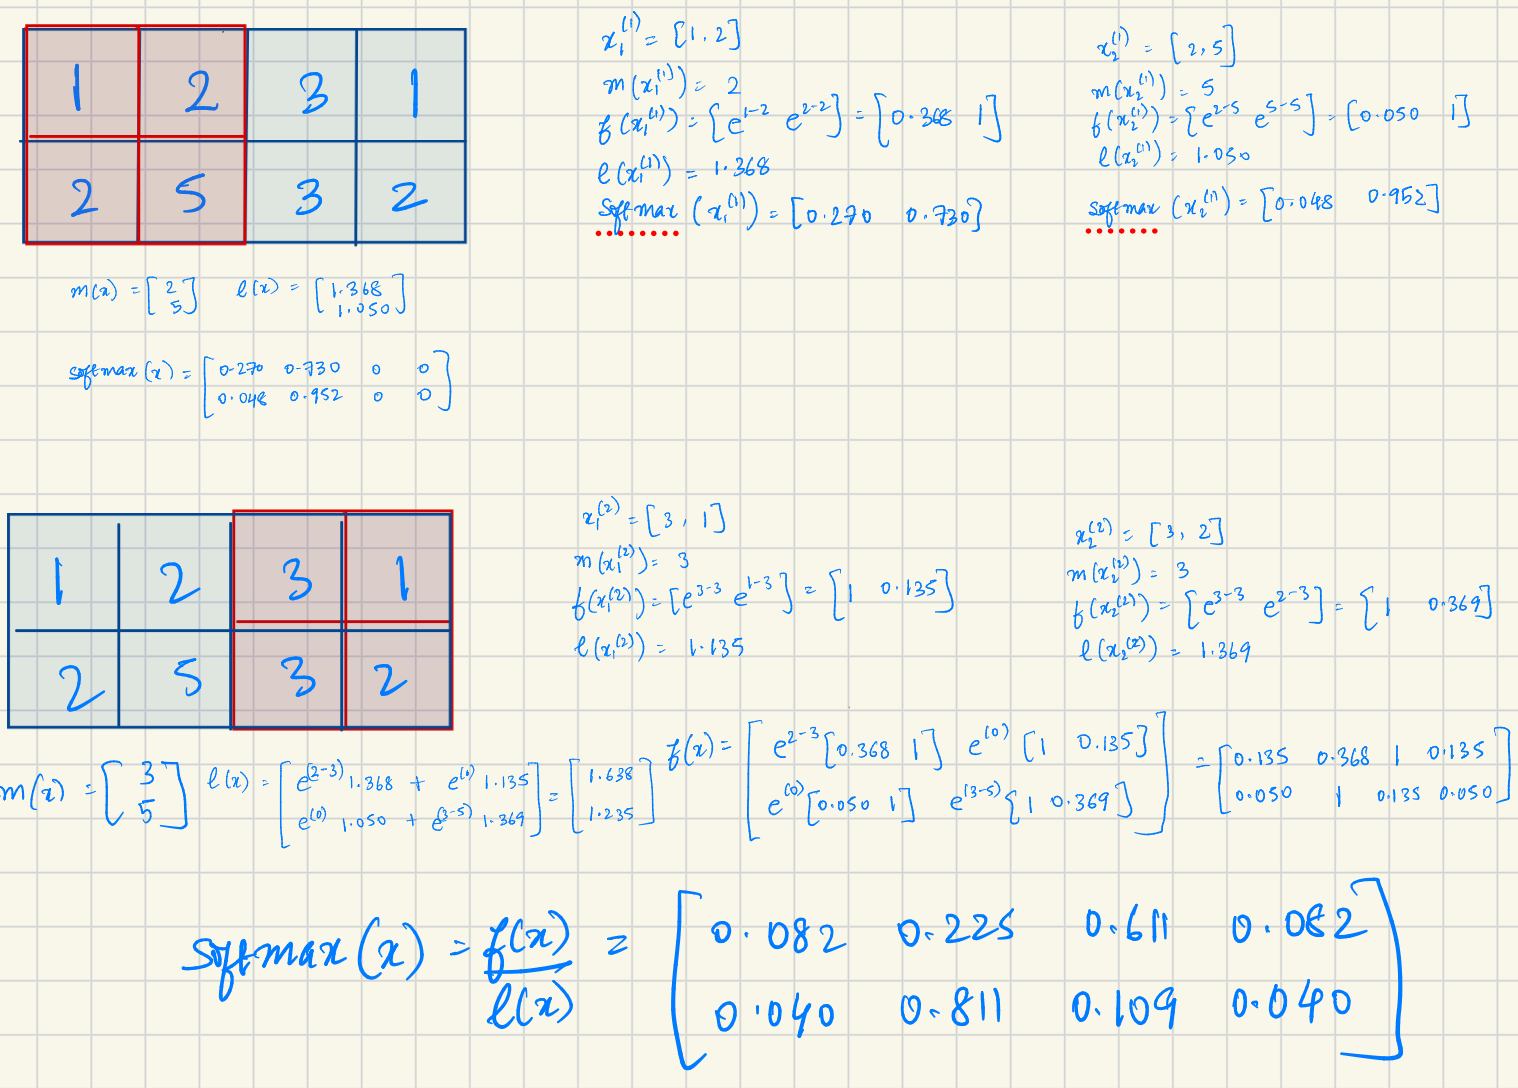
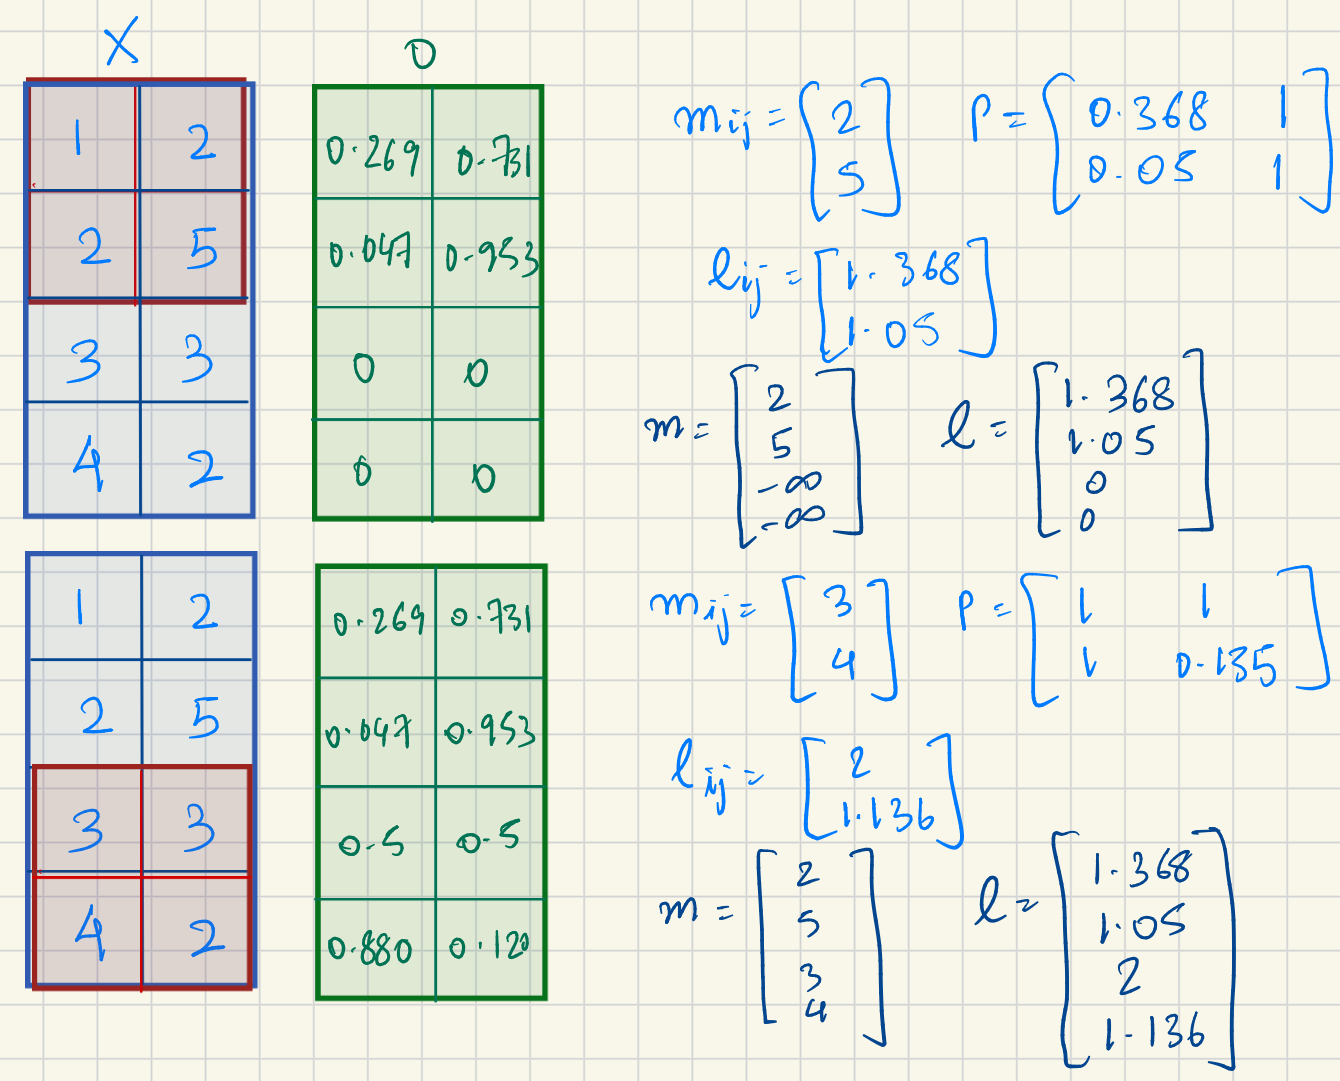
Built site for gh-pages

diff --git a/posts/flash-attention/2025-11-14-notes-on-flash-attention.html b/posts/flash-attention/2025-11-14-notes-on-flash-attention.html
@@ -174,7 +174,7 @@ window.Quarto = {
       <div>
       <div class="quarto-title-meta-heading">Modified</div>
       <div class="quarto-title-meta-contents">
-        <p class="date-modified">November 15, 2025</p>
+        <p class="date-modified">November 16, 2025</p>
       </div>
     </div>
       
@@ -336,8 +336,8 @@ f(x) &amp;= [e^{m(x^{(1)}) - m(x)}f(x^{(1)}) e^{m(x^{(2)}) - m(x)}f(x^{(2)})] \\
 <p>The following is a small hand-worked example:</p>
 <div class="quarto-figure quarto-figure-center">
 <figure class="figure">
-<p><img src="images/blockwise_softmax.png" title="Fig 1: Hand-worked example of block-wise softmax calculation using the online normalizers." class="img-fluid figure-img"></p>
-<figcaption>Blockwise Softmax</figcaption>
+<p><img src="images/blockwise_softmax.png" title="Figure: Example of blockwise softmax using m and l" class="img-fluid figure-img"></p>
+<figcaption>Figure: Example of blockwise softmax using <span class="math inline">\(m\)</span> and <span class="math inline">\(\ell\)</span></figcaption>
 </figure>
 </div>
 <div class="callout callout-style-default callout-important callout-titled">
@@ -356,7 +356,7 @@ f(x) &amp;= [e^{m(x^{(1)}) - m(x)}f(x^{(1)}) e^{m(x^{(2)}) - m(x)}f(x^{(2)})] \\
 </section>
 <section id="re-computation-of-s-and-p-for-backward-pass" class="level3">
 <h3 class="anchored" data-anchor-id="re-computation-of-s-and-p-for-backward-pass">Re-computation of S and P for backward pass</h3>
-<p>While the tiling trick enables speed-ups for inference, i.e.&nbsp;during the forward pass through the transformer, the backward pass typically relies on the intermediate matrices <span class="math inline">\(S,P \in \mathbb{R}^{N \times N}\)</span> for the gradient computation with respect to <span class="math inline">\(\mathbf{Q}, \mathbf{K}, \mathbf{V}\)</span>.</p>
+<p>While the tiling trick enables speed-ups for inference, i.e.&nbsp;during the forward pass through the transformer, the backward pass typically relies on the intermediate matrices <span class="math inline">\(\mathbf{S},\mathbf{P} \in \mathbb{R}^{N \times N}\)</span> for the gradient computation with respect to <span class="math inline">\(\mathbf{Q}, \mathbf{K}, \mathbf{V}\)</span>.</p>
 <p>To avoid storing the <span class="math inline">\(O(N^2)\)</span> intermediate values for the backward pass, the authors instead store the softmax normalization statistics <span class="math inline">\((m, \ell)\)</span> and <em>re-compute</em> <span class="math inline">\(\mathbf{S}, \mathbf{P}\)</span> in the SRAM during the backward pass.</p>
 <div class="callout callout-style-default callout-important callout-titled">
 <div class="callout-header d-flex align-content-center">
@@ -374,7 +374,7 @@ Important
 </section>
 <section id="flashattention-algorithm-forward" class="level3">
 <h3 class="anchored" data-anchor-id="flashattention-algorithm-forward">FlashAttention Algorithm (Forward)</h3>
-<p>The authors prove that this algorithm returns <span class="math inline">\(\mathbf{O} = \text{softmax}(\mathbf{Q}\mathbf{K}^T\mathbf{V})\)</span> with <span class="math inline">\(𝑂(𝑁^2d)\)</span> FLOPs and requires <span class="math inline">\(𝑂(𝑁)\)</span> additional memory beyond inputs and output to store <span class="math inline">\(m\)</span> and <span class="math inline">\(\ell\)</span>.</p>
+<p>The authors prove that this algorithm returns <span class="math inline">\(\mathbf{O} = \text{softmax}(\mathbf{Q}\mathbf{K}^T\mathbf{V})\)</span> with <span class="math inline">\(O(N^2d)\)</span> FLOPs and requires <span class="math inline">\(O(N)\)</span> additional memory beyond inputs and output to store <span class="math inline">\(m\)</span> and <span class="math inline">\(\ell\)</span>.</p>
 <p><strong>Require:</strong> Matrices <span class="math inline">\(\mathbf{Q}, \mathbf{K}, \mathbf{V} \in \mathbb{R}^{N \times d}\)</span> in HBM, on-chip SRAM of size <span class="math inline">\(M\)</span>.</p>
 <ol type="1">
 <li>Set block sizes <span class="math inline">\(B_c = \lceil \frac{M}{4d} \rceil\)</span>, <span class="math inline">\(B_r = \min(\lceil \frac{M}{4d} \rceil, d)\)</span>.</li>
@@ -388,14 +388,27 @@ Important
 <li><span class="math inline">\(\qquad\)</span> On chip, compute <span class="math inline">\(\mathbf{S}_{ij} = \mathbf{Q}_i \mathbf{K}_j^T \in \mathbb{R}^{B_r \times B_c}\)</span>.</li>
 <li><span class="math inline">\(\qquad\)</span> On chip, compute <span class="math inline">\(\tilde{m}_{ij} = \text{rowmax}(\mathbf{S}_{ij}) \in \mathbb{R}^{B_r}\)</span>, <span class="math inline">\(\mathbf{\tilde{P}}_{ij} = \exp(\mathbf{S}_{ij} - \tilde{m}_{ij}) \in \mathbb{R}^{B_r \times B_c}\)</span> (pointwise), <span class="math inline">\(\mathbf{\tilde{\ell}}_{ij} = \text{rowsum}(\mathbf{\tilde{P}}_{ij}) \in \mathbb{R}^{B_r}\)</span>.</li>
 <li><span class="math inline">\(\qquad\)</span> On chip, compute <span class="math inline">\(m_i^{\text{new}} = \max(m_i, \tilde{m}_{ij}) \in \mathbb{R}^{B_r}\)</span>, <span class="math inline">\(\ell_i^{\text{new}} = e^{m_i - m_i^{\text{new}}} \ell_i + e^{\tilde{m}_{ij} - m_i^{\text{new}}} \mathbf{\tilde{\ell}}_{ij} \in \mathbb{R}^{B_r}\)</span>.</li>
-<li><span class="math inline">\(\qquad\)</span> Write <span class="math inline">\(\mathbf{O}_i \leftarrow \text{diag}(\ell_i^{\text{new}})^{-1} (\text{diag}(\ell_i) e^{m_i - m_i^{\text{new}}} \mathbf{O}_i + e^{\tilde{m}_{ij} - m_i^{\text{new}}} \mathbf{\tilde{P}}_{ij} \mathbf{V}_j)\)</span> to HBM.</li>
+<li><span class="math inline">\(\qquad\)</span> Write <span class="math inline">\(\mathbf{O}_i \leftarrow \text{diag}(\ell_i^{\text{new}})^{-1} (\text{diag}(\ell_i) e^{m_i - m_i^{\text{new}}} \mathbf{O}_i + e^{\tilde{m}_{ij} - m_i^{\text{new}}} \mathbf{\tilde{P}}_{ij} \mathbf{V}_j)\)</span> to HBM.<a href="#fn1" class="footnote-ref" id="fnref1" role="doc-noteref"><sup>1</sup></a></li>
 <li><span class="math inline">\(\qquad\)</span> Write <span class="math inline">\(\ell_i \leftarrow \ell_i^{\text{new}}\)</span>, <span class="math inline">\(m_i \leftarrow m_i^{\text{new}}\)</span> to HBM.</li>
 <li><span class="math inline">\(\quad\)</span> <strong>end for</strong></li>
 <li><strong>end for</strong></li>
 <li>Return <span class="math inline">\(\mathbf{O}\)</span>.</li>
 </ol>
+<div class="callout callout-style-default callout-note callout-titled">
+<div class="callout-header d-flex align-content-center">
+<div class="callout-icon-container">
+<i class="callout-icon"></i>
+</div>
+<div class="callout-title-container flex-fill">
+Note
+</div>
+</div>
+<div class="callout-body-container callout-body">
+<p>Unlike tiling in most GMM algorithms, this algorithm does 1-dimension block tiling and doesn’t tile on <span class="math inline">\(d\)</span> and assumes the head dimension will always fit within the blocks.</p>
+</div>
+</div>
 <div class="callout callout-style-default callout-tip callout-titled">
-<div class="callout-header d-flex align-content-center" data-bs-toggle="collapse" data-bs-target=".callout-6-contents" aria-controls="callout-6" aria-expanded="true" aria-label="Toggle callout">
+<div class="callout-header d-flex align-content-center" data-bs-toggle="collapse" data-bs-target=".callout-7-contents" aria-controls="callout-7" aria-expanded="true" aria-label="Toggle callout">
 <div class="callout-icon-container">
 <i class="callout-icon"></i>
 </div>
@@ -404,7 +417,7 @@ Important
 </div>
 <div class="callout-btn-toggle d-inline-block border-0 py-1 ps-1 pe-0 float-end"><i class="callout-toggle"></i></div>
 </div>
-<div id="callout-6" class="callout-6-contents callout-collapse collapse show">
+<div id="callout-7" class="callout-7-contents callout-collapse collapse show">
 <div class="callout-body-container callout-body">
 <p><a href="https://images.nvidia.com/aem-dam/en-zz/Solutions/data-center/nvidia-ampere-architecture-whitepaper.pdf">An A100</a> has a configurable 164KB SRAM per <a href="https://modal.com/gpu-glossary/device-hardware/streaming-multiprocessor">SM</a>.</p>
 <p>Assuming the availability of 128KB and using <code>fp16</code>/<code>bf16</code> (2 bytes to represent a number) for all our computations,<br>
@@ -423,8 +436,8 @@ B_r &amp;= \min(\lceil \frac{M}{4 \times d} \rceil, d) &amp;&amp;= \min(\lceil \
 <p>Assuming <span class="math inline">\(N = 1024\)</span> (used in the paper), we can calculate tile sizes as:<br>
 <span class="math display">\[
 \begin{align}
-T_r &amp;= \lceil \frac{N}{B_r} \rceil &amp;&amp;= 1024 / 64&amp;&amp;= 16 \\
-T_c &amp;= \lceil \frac{N}{B_c} \rceil &amp;&amp;= 1024 / 256&amp;&amp;= 4
+T_r &amp;= \lceil \frac{N}{B_r} \rceil &amp;&amp;= \frac{1024}{64}&amp;&amp;= 16 \\
+T_c &amp;= \lceil \frac{N}{B_c} \rceil &amp;&amp;= \frac{1024}{256}&amp;&amp;= 4
 \end{align}
 \]</span></p>
 </div>
@@ -454,7 +467,7 @@ T_c &amp;= \lceil \frac{N}{B_c} \rceil &amp;&amp;= 1024 / 256&amp;&amp;= 4
 <th style="text-align: left;">GPU</th>
 <th style="text-align: center;">Arch</th>
 <th style="text-align: center;">SMs</th>
-<th style="text-align: right;">SRAM<a href="#fn1" class="footnote-ref" id="fnref1" role="doc-noteref"><sup>1</sup></a></th>
+<th style="text-align: right;">SRAM<a href="#fn2" class="footnote-ref" id="fnref2" role="doc-noteref"><sup>2</sup></a></th>
 <th style="text-align: right;">VRAM</th>
 <th style="text-align: right;">Memory Bandwidth</th>
 </tr>
@@ -529,7 +542,8 @@ T_c &amp;= \lceil \frac{N}{B_c} \rceil &amp;&amp;= 1024 / 256&amp;&amp;= 4
 <div id="quarto-appendix" class="default"><section id="footnotes" class="footnotes footnotes-end-of-document" role="doc-endnotes"><h2 class="anchored quarto-appendix-heading">Footnotes</h2>
 
 <ol>
-<li id="fn1"><p>Modern NVIDIA GPUs have combined <a href="https://modal.com/gpu-glossary/device-hardware/l1-data-cache">L1 data cache</a> and shared memory (SRAM) and the exact memory reserved for both is configurable.<a href="#fnref1" class="footnote-back" role="doc-backlink">↩</a></p></li>
+<li id="fn1"><p>Equivalent numpy expression: <code>O_i = (l_i[..., np.newaxis] * np.exp(m_i - m_i_new) * O_i + np.exp(m_ij - m_i_new)*(P)) /  l_i_new[..., np.newaxis]</code>.<a href="#fnref1" class="footnote-back" role="doc-backlink">↩</a></p></li>
+<li id="fn2"><p>Modern NVIDIA GPUs have combined <a href="https://modal.com/gpu-glossary/device-hardware/l1-data-cache">L1 data cache</a> and shared memory (SRAM) and the exact memory reserved for both is configurable.<a href="#fnref2" class="footnote-back" role="doc-backlink">↩</a></p></li>
 </ol>
 </section></div></main> <!-- /main -->
 <script id="quarto-html-after-body" type="application/javascript">

diff --git a/index.html b/index.html
@@ -190,10 +190,10 @@ window.Quarto = {
 
 <div class="quarto-listing quarto-listing-container-default" id="listing-listing">
 <div class="list quarto-listing-default">
-<div class="quarto-post image-right" data-index="0" data-categories="aW5mZXJlbmNlJTJDYXR0ZW50aW9uJTJDcGVyZm9ybWFuY2U=" data-listing-date-sort="1763078400000" data-listing-file-modified-sort="1763246712801" data-listing-date-modified-sort="1763246712000" data-listing-reading-time-sort="10" data-listing-word-count-sort="1843">
+<div class="quarto-post image-right" data-index="0" data-categories="aW5mZXJlbmNlJTJDYXR0ZW50aW9uJTJDcGVyZm9ybWFuY2U=" data-listing-date-sort="1763078400000" data-listing-file-modified-sort="1763280225678" data-listing-date-modified-sort="1763280225000" data-listing-reading-time-sort="10" data-listing-word-count-sort="1893">
 <div class="thumbnail"><a href="./posts/flash-attention/2025-11-14-notes-on-flash-attention.html" class="no-external">
 
-<p class="card-img-top"><img src="posts/flash-attention/images/blockwise_softmax.png" title="Fig 1: Hand-worked example of block-wise softmax calculation using the online normalizers." class="thumbnail-image card-img"/></p>
+<p class="card-img-top"><img src="posts/flash-attention/images/blockwise_softmax.png" title="Figure: Example of blockwise softmax using m and l" class="thumbnail-image card-img"/></p>
 
 </a></div>
 <div class="body">
@@ -221,7 +221,7 @@ Nov 14, 2025
 </a>
 </div>
 </div>
-<div class="quarto-post image-right" data-index="1" data-categories="ZXhwZXJpbWVudGF0aW9uJTJDbWxmbG93JTJDcHl0aG9u" data-listing-date-sort="1662940800000" data-listing-file-modified-sort="1763246712803" data-listing-date-modified-sort="NaN" data-listing-reading-time-sort="24" data-listing-word-count-sort="4678">
+<div class="quarto-post image-right" data-index="1" data-categories="ZXhwZXJpbWVudGF0aW9uJTJDbWxmbG93JTJDcHl0aG9u" data-listing-date-sort="1662940800000" data-listing-file-modified-sort="1763280225680" data-listing-date-modified-sort="NaN" data-listing-reading-time-sort="24" data-listing-word-count-sort="4678">
 <div class="thumbnail"><a href="./posts/mlflow-logging/2022-09-12-mlflow-logging-design-decisions-tricky-parts.html" class="no-external">
 
 <p class="card-img-top"><img src="posts/mlflow-logging/images/mlflow-tricky-parts/mlflow-run-params.png" alt="Mlflow UI showing parameters and metric" title="Fig 1: Screenshot of mlflow ui of run triggered using `mlflow run` command showing all the parameters from MLproject and the logged metric (current_iter)" class="thumbnail-image card-img"/></p>
